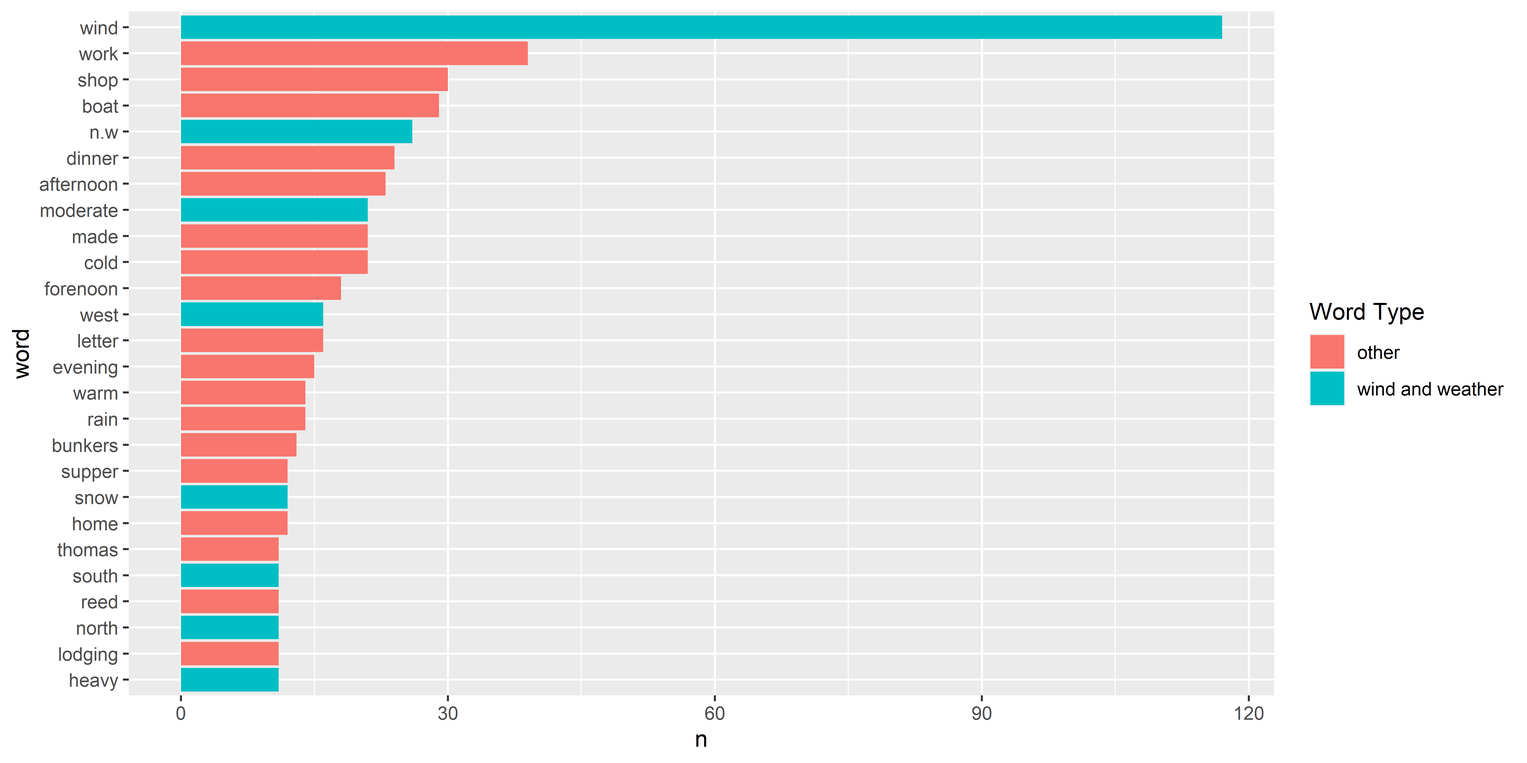
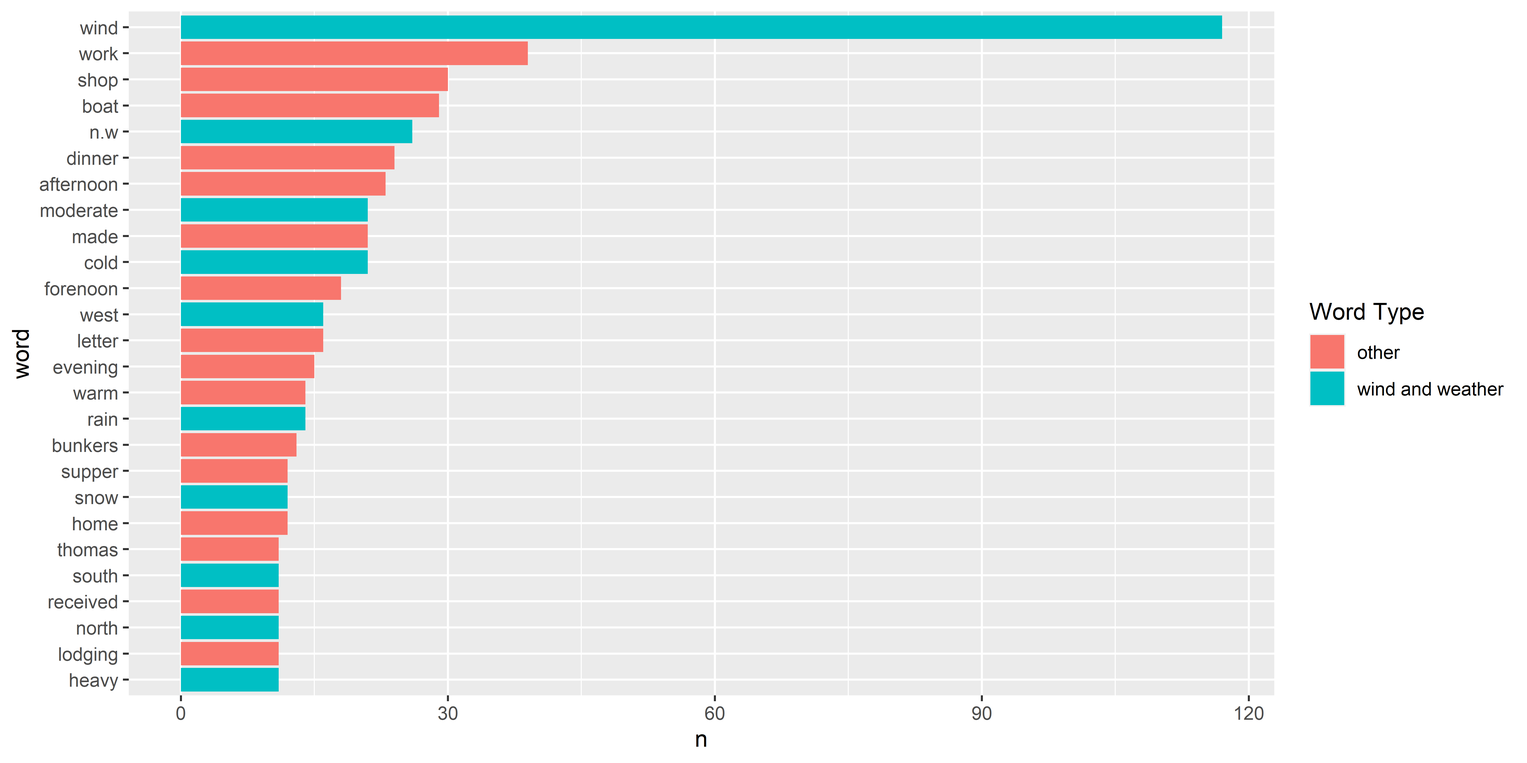
Update tidy text slides

Changed region(s): [[0.0935, 0.31, 0.2493, 0.372], [0.0935, 0.527, 0.2182, 0.589], [0.0312, 0.775, 0.0623, 0.806]]

diff --git a/docs/slides/01-tidytext.html b/docs/slides/01-tidytext.html
@@ -692,13 +692,13 @@ by Julia Silge adapted with a COA twist by Laurie Baker
 <h1>The Freeland Bunker Diaries</h1>
 
 </section>
-<section id="section-3" class="slide level2" data-background-image="figs/freeland_bunker.jpg" data-background-size="60%" data-background-color="white">
+<section id="section-3" class="slide level2" data-background-image="figs/freeland_bunker.jpg" data-background-size="40%" data-background-color="white">
 <h2></h2>
 <div class="footer">
 
 </div>
 </section>
-<section id="section-4" class="slide level2" data-background-image="figs/freeland_timeline.jpg" data-background-size="60%" data-background-color="white">
+<section id="section-4" class="slide level2" data-background-image="figs/freeland_timeline.jpg" data-background-size="40%" data-background-color="white">
 <h2></h2>
 <div class="footer">
 
@@ -752,25 +752,29 @@ by Julia Silge adapted with a COA twist by Laurie Baker
 </section>
 <section id="tidy-journals" class="slide level2">
 <h2>Tidy Journals</h2>
-<div class="cell" data-hash="01-tidytext_cache/revealjs/unnamed-chunk-18_5800bce2038c4ee481c1662cef2352f2">
+<div class="cell" data-hash="01-tidytext_cache/revealjs/unnamed-chunk-18_9bb9762a4731d79439278107ff6b9247">
 <div class="sourceCode cell-code" id="cb16"><pre class="sourceCode numberSource r number-lines code-with-copy"><code class="sourceCode r"><span id="cb16-1"><a href="#cb16-1"></a><span class="fu">library</span>(lubridate)</span>
 <span id="cb16-2"><a href="#cb16-2"></a>(tidy_journal <span class="ot">&lt;-</span> journals <span class="sc">%&gt;%</span></span>
 <span id="cb16-3"><a href="#cb16-3"></a>    <span class="fu">select</span>(date_mdy, month, journal_entry, journal) <span class="sc">%&gt;%</span></span>
-<span id="cb16-4"><a href="#cb16-4"></a>    <span class="fu">unnest_tokens</span>(word, journal_entry))</span>
-<span id="cb16-5"><a href="#cb16-5"></a><span class="co">#&gt; # A tibble: 12,356 x 4</span></span>
-<span id="cb16-6"><a href="#cb16-6"></a><span class="co">#&gt;    date_mdy   month    journal word   </span></span>
-<span id="cb16-7"><a href="#cb16-7"></a><span class="co">#&gt;    &lt;chr&gt;      &lt;chr&gt;      &lt;dbl&gt; &lt;chr&gt;  </span></span>
-<span id="cb16-8"><a href="#cb16-8"></a><span class="co">#&gt;  1 12/23/1871 December       1 was    </span></span>
-<span id="cb16-9"><a href="#cb16-9"></a><span class="co">#&gt;  2 12/23/1871 December       1 married</span></span>
-<span id="cb16-10"><a href="#cb16-10"></a><span class="co">#&gt;  3 12/23/1871 December       1 at     </span></span>
-<span id="cb16-11"><a href="#cb16-11"></a><span class="co">#&gt;  4 12/23/1871 December       1 home   </span></span>
-<span id="cb16-12"><a href="#cb16-12"></a><span class="co">#&gt;  5 12/23/1871 December       1 in     </span></span>
-<span id="cb16-13"><a href="#cb16-13"></a><span class="co">#&gt;  6 12/23/1871 December       1 evening</span></span>
-<span id="cb16-14"><a href="#cb16-14"></a><span class="co">#&gt;  7 12/23/1871 December       1 by     </span></span>
-<span id="cb16-15"><a href="#cb16-15"></a><span class="co">#&gt;  8 12/23/1871 December       1 william</span></span>
-<span id="cb16-16"><a href="#cb16-16"></a><span class="co">#&gt;  9 12/23/1871 December       1 rand   </span></span>
-<span id="cb16-17"><a href="#cb16-17"></a><span class="co">#&gt; 10 12/23/1871 December       1 esqr   </span></span>
-<span id="cb16-18"><a href="#cb16-18"></a><span class="co">#&gt; # ... with 12,346 more rows</span></span></code><button title="Copy to Clipboard" class="code-copy-button"><i class="bi"></i></button></pre></div>
+<span id="cb16-4"><a href="#cb16-4"></a>    <span class="fu">mutate</span>(<span class="at">date_mdy =</span> <span class="fu">mdy</span>(date_mdy)) <span class="sc">%&gt;%</span></span>
+<span id="cb16-5"><a href="#cb16-5"></a>    <span class="fu">mutate</span>(<span class="at">year =</span> <span class="fu">year</span>(date_mdy)) <span class="sc">%&gt;%</span></span>
+<span id="cb16-6"><a href="#cb16-6"></a>    <span class="fu">unnest_tokens</span>(word, journal_entry)  <span class="sc">%&gt;%</span></span>
+<span id="cb16-7"><a href="#cb16-7"></a>    <span class="fu">mutate</span>(<span class="at">word =</span> <span class="fu">case_when</span>(word <span class="sc">%in%</span> <span class="fu">c</span>(<span class="st">"reed"</span>, <span class="st">"read"</span>) <span class="sc">~</span> <span class="st">"received"</span>,</span>
+<span id="cb16-8"><a href="#cb16-8"></a>                            <span class="cn">TRUE</span> <span class="sc">~</span> word)))</span>
+<span id="cb16-9"><a href="#cb16-9"></a><span class="co">#&gt; # A tibble: 12,356 x 5</span></span>
+<span id="cb16-10"><a href="#cb16-10"></a><span class="co">#&gt;    date_mdy   month    journal  year word   </span></span>
+<span id="cb16-11"><a href="#cb16-11"></a><span class="co">#&gt;    &lt;date&gt;     &lt;chr&gt;      &lt;dbl&gt; &lt;dbl&gt; &lt;chr&gt;  </span></span>
+<span id="cb16-12"><a href="#cb16-12"></a><span class="co">#&gt;  1 1871-12-23 December       1  1871 was    </span></span>
+<span id="cb16-13"><a href="#cb16-13"></a><span class="co">#&gt;  2 1871-12-23 December       1  1871 married</span></span>
+<span id="cb16-14"><a href="#cb16-14"></a><span class="co">#&gt;  3 1871-12-23 December       1  1871 at     </span></span>
+<span id="cb16-15"><a href="#cb16-15"></a><span class="co">#&gt;  4 1871-12-23 December       1  1871 home   </span></span>
+<span id="cb16-16"><a href="#cb16-16"></a><span class="co">#&gt;  5 1871-12-23 December       1  1871 in     </span></span>
+<span id="cb16-17"><a href="#cb16-17"></a><span class="co">#&gt;  6 1871-12-23 December       1  1871 evening</span></span>
+<span id="cb16-18"><a href="#cb16-18"></a><span class="co">#&gt;  7 1871-12-23 December       1  1871 by     </span></span>
+<span id="cb16-19"><a href="#cb16-19"></a><span class="co">#&gt;  8 1871-12-23 December       1  1871 william</span></span>
+<span id="cb16-20"><a href="#cb16-20"></a><span class="co">#&gt;  9 1871-12-23 December       1  1871 rand   </span></span>
+<span id="cb16-21"><a href="#cb16-21"></a><span class="co">#&gt; 10 1871-12-23 December       1  1871 esqr   </span></span>
+<span id="cb16-22"><a href="#cb16-22"></a><span class="co">#&gt; # ... with 12,346 more rows</span></span></code><button title="Copy to Clipboard" class="code-copy-button"><i class="bi"></i></button></pre></div>
 </div>
 </section>
 <section id="most-common-words" class="slide level2">
@@ -975,6 +979,191 @@ by Julia Silge adapted with a COA twist by Laurie Baker
 <h2></h2>
 
 <img data-src="01-tidytext_files/figure-revealjs/unnamed-chunk-32-1.png" width="3000" class="r-stretch quarto-figure-center"></section></section>
+<section>
+<section id="was-freeland-sentimental" class="title-slide slide level1 center" data-background-image="figs/water.jpg" data-background-size="cover" data-background-opacity="0.5">
+<h1>Was Freeland Sentimental?</h1>
+<p><img data-src="figs/freeland_headshot.jpg" data-top="0" data-right="" width="180" height="200"></p>
+</section>
+<section id="implementing-sentiment-analysis-4" class="slide level2" data-background-color="white">
+<h2>Implementing sentiment analysis</h2>
+<div class="cell" data-hash="01-tidytext_cache/revealjs/unnamed-chunk-33_e1aebedbf6a02c68bc4004eed736e949">
+<div class="sourceCode cell-code" id="cb27" data-code-line-numbers="3"><pre class="sourceCode numberSource r number-lines code-with-copy"><code class="sourceCode r"><span id="cb27-1"><a href="#cb27-1"></a>tidy_journal <span class="sc">%&gt;%</span></span>
+<span id="cb27-2"><a href="#cb27-2"></a>    <span class="fu">inner_join</span>(<span class="fu">get_sentiments</span>(<span class="st">"bing"</span>)) <span class="sc">%&gt;%</span>            </span>
+<span id="cb27-3"><a href="#cb27-3"></a>    <span class="fu">count</span>(sentiment, word, <span class="at">sort =</span> <span class="cn">TRUE</span>)   </span>
+<span id="cb27-4"><a href="#cb27-4"></a><span class="co">#&gt; # A tibble: 84 x 3</span></span>
+<span id="cb27-5"><a href="#cb27-5"></a><span class="co">#&gt;    sentiment word         n</span></span>
+<span id="cb27-6"><a href="#cb27-6"></a><span class="co">#&gt;    &lt;chr&gt;     &lt;chr&gt;    &lt;int&gt;</span></span>
+<span id="cb27-7"><a href="#cb27-7"></a><span class="co">#&gt;  1 positive  work       182</span></span>
+<span id="cb27-8"><a href="#cb27-8"></a><span class="co">#&gt;  2 negative  cold        45</span></span>
+<span id="cb27-9"><a href="#cb27-9"></a><span class="co">#&gt;  3 positive  good        36</span></span>
+<span id="cb27-10"><a href="#cb27-10"></a><span class="co">#&gt;  4 positive  calm        33</span></span>
+<span id="cb27-11"><a href="#cb27-11"></a><span class="co">#&gt;  5 negative  staid       30</span></span>
+<span id="cb27-12"><a href="#cb27-12"></a><span class="co">#&gt;  6 positive  warm        29</span></span>
+<span id="cb27-13"><a href="#cb27-13"></a><span class="co">#&gt;  7 positive  breeze      25</span></span>
+<span id="cb27-14"><a href="#cb27-14"></a><span class="co">#&gt;  8 positive  pleasant    24</span></span>
+<span id="cb27-15"><a href="#cb27-15"></a><span class="co">#&gt;  9 positive  ready       17</span></span>
+<span id="cb27-16"><a href="#cb27-16"></a><span class="co">#&gt; 10 positive  worked      17</span></span>
+<span id="cb27-17"><a href="#cb27-17"></a><span class="co">#&gt; # ... with 74 more rows</span></span></code><button title="Copy to Clipboard" class="code-copy-button"><i class="bi"></i></button></pre></div>
+</div>
+</section>
+<section id="implementing-sentiment-analysis-5" class="slide level2" data-background-color="white">
+<h2>Implementing sentiment analysis</h2>
+<div class="cell" data-hash="01-tidytext_cache/revealjs/unnamed-chunk-34_dde93cd555e30d5c207b69ca9cbd4e04">
+<div class="sourceCode cell-code" id="cb28" data-code-line-numbers="|7"><pre class="sourceCode numberSource r number-lines code-with-copy"><code class="sourceCode r"><span id="cb28-1"><a href="#cb28-1"></a>tidy_journal <span class="sc">%&gt;%</span></span>
+<span id="cb28-2"><a href="#cb28-2"></a>    <span class="fu">inner_join</span>(<span class="fu">get_sentiments</span>(<span class="st">"bing"</span>)) <span class="sc">%&gt;%</span></span>
+<span id="cb28-3"><a href="#cb28-3"></a>    <span class="fu">count</span>(sentiment, word, <span class="at">sort =</span> <span class="cn">TRUE</span>) <span class="sc">%&gt;%</span></span>
+<span id="cb28-4"><a href="#cb28-4"></a>    <span class="fu">group_by</span>(sentiment) <span class="sc">%&gt;%</span></span>
+<span id="cb28-5"><a href="#cb28-5"></a>    <span class="fu">slice_max</span>(n, <span class="at">n =</span> <span class="dv">10</span>) <span class="sc">%&gt;%</span></span>
+<span id="cb28-6"><a href="#cb28-6"></a>    <span class="fu">ungroup</span>() <span class="sc">%&gt;%</span></span>
+<span id="cb28-7"><a href="#cb28-7"></a>    <span class="fu">ggplot</span>(<span class="fu">aes</span>(n, <span class="fu">fct_reorder</span>(word, n), <span class="at">fill =</span> sentiment)) <span class="sc">+</span></span>
+<span id="cb28-8"><a href="#cb28-8"></a>    <span class="fu">geom_col</span>() <span class="sc">+</span></span>
+<span id="cb28-9"><a href="#cb28-9"></a>    <span class="fu">facet_wrap</span>(<span class="fu">vars</span>(sentiment), <span class="at">scales =</span> <span class="st">"free"</span>) </span></code><button title="Copy to Clipboard" class="code-copy-button"><i class="bi"></i></button></pre></div>
+</div>
+</section>
+<section id="section-7" class="slide level2" data-background-color="white">
+<h2></h2>
+
+<img data-src="01-tidytext_files/figure-revealjs/unnamed-chunk-35-1.png" width="3000" class="r-stretch quarto-figure-center"></section></section>
+<section>
+<section id="what-was-the-weather-like" class="title-slide slide level1 center" data-background-image="figs/water.jpg" data-background-size="cover" data-background-opacity="0.5">
+<h1>What was the weather like?</h1>
+
+</section>
+<section id="section-8" class="slide level2" data-background-color="white">
+<h2></h2>
+
+<img data-src="01-tidytext_files/figure-revealjs/unnamed-chunk-36-1.png" width="3000" class="r-stretch quarto-figure-center"></section></section>
+<section>
+<section id="more-insight-from-bigrams" class="title-slide slide level1 center" data-background-image="figs/water.jpg" data-background-size="cover" data-background-opacity="0.5">
+<h1>More insight from bigrams!</h1>
+<div class="cell" data-hash="01-tidytext_cache/revealjs/unnamed-chunk-37_34c428804091af85667378bf3b14c794">
+<div class="sourceCode cell-code" id="cb29"><pre class="sourceCode numberSource r number-lines code-with-copy"><code class="sourceCode r"><span id="cb29-1"><a href="#cb29-1"></a>(tidy_ngram <span class="ot">&lt;-</span> journals <span class="sc">%&gt;%</span></span>
+<span id="cb29-2"><a href="#cb29-2"></a>    <span class="fu">mutate</span>(<span class="at">journal_entry =</span> <span class="fu">str_replace_all</span>(journal_entry, <span class="st">"south west"</span>, <span class="st">"southwest"</span>)) <span class="sc">%&gt;%</span></span>
+<span id="cb29-3"><a href="#cb29-3"></a>    <span class="fu">mutate</span>(<span class="at">journal_entry =</span> <span class="fu">str_replace_all</span>(journal_entry, <span class="st">"north west"</span>, <span class="st">"northwest"</span>)) <span class="sc">%&gt;%</span></span>
+<span id="cb29-4"><a href="#cb29-4"></a>    <span class="fu">mutate</span>(<span class="at">journal_entry =</span> <span class="fu">str_replace_all</span>(journal_entry, <span class="st">"south east"</span>, <span class="st">"southeast"</span>)) <span class="sc">%&gt;%</span></span>
+<span id="cb29-5"><a href="#cb29-5"></a>    <span class="fu">mutate</span>(<span class="at">journal_entry =</span> <span class="fu">str_replace_all</span>(journal_entry, <span class="st">"north east"</span>, <span class="st">"northeast"</span>)) <span class="sc">%&gt;%</span></span>
+<span id="cb29-6"><a href="#cb29-6"></a>    <span class="fu">unnest_tokens</span>(bigram, journal_entry, <span class="at">token =</span> <span class="st">"ngrams"</span>, <span class="at">n =</span> <span class="dv">2</span>) <span class="sc">%&gt;%</span> </span>
+<span id="cb29-7"><a href="#cb29-7"></a>    <span class="fu">drop_na</span>(bigram) <span class="sc">%&gt;%</span></span>
+<span id="cb29-8"><a href="#cb29-8"></a>    <span class="fu">select</span>(journal, bigram, date_mdy))</span>
+<span id="cb29-9"><a href="#cb29-9"></a><span class="co">#&gt; # A tibble: 11,467 x 3</span></span>
+<span id="cb29-10"><a href="#cb29-10"></a><span class="co">#&gt;    journal bigram       date_mdy  </span></span>
+<span id="cb29-11"><a href="#cb29-11"></a><span class="co">#&gt;      &lt;dbl&gt; &lt;chr&gt;        &lt;chr&gt;     </span></span>
+<span id="cb29-12"><a href="#cb29-12"></a><span class="co">#&gt;  1       1 was married  12/23/1871</span></span>
+<span id="cb29-13"><a href="#cb29-13"></a><span class="co">#&gt;  2       1 married at   12/23/1871</span></span>
+<span id="cb29-14"><a href="#cb29-14"></a><span class="co">#&gt;  3       1 at home      12/23/1871</span></span>
+<span id="cb29-15"><a href="#cb29-15"></a><span class="co">#&gt;  4       1 home in      12/23/1871</span></span>
+<span id="cb29-16"><a href="#cb29-16"></a><span class="co">#&gt;  5       1 in evening   12/23/1871</span></span>
+<span id="cb29-17"><a href="#cb29-17"></a><span class="co">#&gt;  6       1 evening by   12/23/1871</span></span>
+<span id="cb29-18"><a href="#cb29-18"></a><span class="co">#&gt;  7       1 by william   12/23/1871</span></span>
+<span id="cb29-19"><a href="#cb29-19"></a><span class="co">#&gt;  8       1 william rand 12/23/1871</span></span>
+<span id="cb29-20"><a href="#cb29-20"></a><span class="co">#&gt;  9       1 rand esqr    12/23/1871</span></span>
+<span id="cb29-21"><a href="#cb29-21"></a><span class="co">#&gt; 10       1 went to      12/24/1871</span></span>
+<span id="cb29-22"><a href="#cb29-22"></a><span class="co">#&gt; # ... with 11,457 more rows</span></span></code><button title="Copy to Clipboard" class="code-copy-button"><i class="bi"></i></button></pre></div>
+</div>
+</section>
+<section id="n-grams-and-beyond" class="slide level2" data-background-color="white">
+<h2>N-grams… and beyond! 🚀</h2>
+<div class="cell" data-hash="01-tidytext_cache/revealjs/unnamed-chunk-38_5ea93734f1d141e65b011be253cfaf75">
+<div class="sourceCode cell-code" id="cb30"><pre class="sourceCode numberSource r number-lines code-with-copy"><code class="sourceCode r"><span id="cb30-1"><a href="#cb30-1"></a>tidy_ngram <span class="sc">%&gt;%</span></span>
+<span id="cb30-2"><a href="#cb30-2"></a>    <span class="fu">count</span>(bigram, <span class="at">sort =</span> <span class="cn">TRUE</span>)</span>
+<span id="cb30-3"><a href="#cb30-3"></a><span class="co">#&gt; # A tibble: 5,522 x 2</span></span>
+<span id="cb30-4"><a href="#cb30-4"></a><span class="co">#&gt;    bigram             n</span></span>
+<span id="cb30-5"><a href="#cb30-5"></a><span class="co">#&gt;    &lt;chr&gt;          &lt;int&gt;</span></span>
+<span id="cb30-6"><a href="#cb30-6"></a><span class="co">#&gt;  1 the wind         501</span></span>
+<span id="cb30-7"><a href="#cb30-7"></a><span class="co">#&gt;  2 went to          149</span></span>
+<span id="cb30-8"><a href="#cb30-8"></a><span class="co">#&gt;  3 in shop          110</span></span>
+<span id="cb30-9"><a href="#cb30-9"></a><span class="co">#&gt;  4 work in          108</span></span>
+<span id="cb30-10"><a href="#cb30-10"></a><span class="co">#&gt;  5 in the            99</span></span>
+<span id="cb30-11"><a href="#cb30-11"></a><span class="co">#&gt;  6 wind north        71</span></span>
+<span id="cb30-12"><a href="#cb30-12"></a><span class="co">#&gt;  7 in forenoon       55</span></span>
+<span id="cb30-13"><a href="#cb30-13"></a><span class="co">#&gt;  8 wind southerly    54</span></span>
+<span id="cb30-14"><a href="#cb30-14"></a><span class="co">#&gt;  9 letter to         53</span></span>
+<span id="cb30-15"><a href="#cb30-15"></a><span class="co">#&gt; 10 wrote letter      53</span></span>
+<span id="cb30-16"><a href="#cb30-16"></a><span class="co">#&gt; # ... with 5,512 more rows</span></span></code><button title="Copy to Clipboard" class="code-copy-button"><i class="bi"></i></button></pre></div>
+</div>
+</section>
+<section id="jane-wants-to-know-2" class="slide level2" data-transition="slide-in">
+<h2>Jane wants to know…</h2>
+<p><img data-src="figs/blue_jane.png" class="absolute" style="top: 0px; right: 0px; width: 150px; height: 150px; "></p>
+<p>Can we use an <span class="codedarkbg">anti_join()</span> now to remove stop words?</p>
+<ul>
+<li>Yes! ✅</li>
+<li>No ☹</li>
+</ul>
+</section>
+<section id="n-grams-and-beyond-1" class="slide level2" data-background-color="white">
+<h2>N-grams… and beyond! 🚀</h2>
+<div class="cell" data-hash="01-tidytext_cache/revealjs/unnamed-chunk-39_15c5c88806232e301569298b523710d9">
+<div class="sourceCode cell-code" id="cb31" data-code-line-numbers="|2"><pre class="sourceCode numberSource r number-lines code-with-copy"><code class="sourceCode r"><span id="cb31-1"><a href="#cb31-1"></a>bigram_counts <span class="ot">&lt;-</span> tidy_ngram <span class="sc">%&gt;%</span></span>
+<span id="cb31-2"><a href="#cb31-2"></a>    <span class="fu">separate</span>(bigram, <span class="fu">c</span>(<span class="st">"word1"</span>, <span class="st">"word2"</span>), <span class="at">sep =</span> <span class="st">" "</span>) <span class="sc">%&gt;%</span></span>
+<span id="cb31-3"><a href="#cb31-3"></a>    <span class="fu">filter</span>(<span class="sc">!</span>word1 <span class="sc">%in%</span> stop_words<span class="sc">$</span>word,</span>
+<span id="cb31-4"><a href="#cb31-4"></a>           <span class="sc">!</span>word2 <span class="sc">%in%</span> stop_words<span class="sc">$</span>word) <span class="sc">%&gt;%</span></span>
+<span id="cb31-5"><a href="#cb31-5"></a>    <span class="fu">count</span>(word1, word2, <span class="at">sort =</span> <span class="cn">TRUE</span>)</span></code><button title="Copy to Clipboard" class="code-copy-button"><i class="bi"></i></button></pre></div>
+</div>
+</section>
+<section id="so-many-wind-directions" class="slide level2" data-background-color="white">
+<h2>So many wind directions…! 🚀</h2>
+<div class="cell" data-hash="01-tidytext_cache/revealjs/unnamed-chunk-40_3ecc895eed6dd43b13c89ff8fc6282e7">
+<div class="sourceCode cell-code" id="cb32"><pre class="sourceCode numberSource r number-lines code-with-copy"><code class="sourceCode r"><span id="cb32-1"><a href="#cb32-1"></a>bigram_counts</span>
+<span id="cb32-2"><a href="#cb32-2"></a><span class="co">#&gt; # A tibble: 1,930 x 3</span></span>
+<span id="cb32-3"><a href="#cb32-3"></a><span class="co">#&gt;    word1 word2         n</span></span>
+<span id="cb32-4"><a href="#cb32-4"></a><span class="co">#&gt;    &lt;chr&gt; &lt;chr&gt;     &lt;int&gt;</span></span>
+<span id="cb32-5"><a href="#cb32-5"></a><span class="co">#&gt;  1 wind  north        71</span></span>
+<span id="cb32-6"><a href="#cb32-6"></a><span class="co">#&gt;  2 wind  southerly    54</span></span>
+<span id="cb32-7"><a href="#cb32-7"></a><span class="co">#&gt;  3 wrote letter       53</span></span>
+<span id="cb32-8"><a href="#cb32-8"></a><span class="co">#&gt;  4 north west         48</span></span>
+<span id="cb32-9"><a href="#cb32-9"></a><span class="co">#&gt;  5 wind  south        47</span></span>
+<span id="cb32-10"><a href="#cb32-10"></a><span class="co">#&gt;  6 reed  letter       36</span></span>
+<span id="cb32-11"><a href="#cb32-11"></a><span class="co">#&gt;  7 wind  n.w          33</span></span>
+<span id="cb32-12"><a href="#cb32-12"></a><span class="co">#&gt;  8 south west         32</span></span>
+<span id="cb32-13"><a href="#cb32-13"></a><span class="co">#&gt;  9 wind  easterly     32</span></span>
+<span id="cb32-14"><a href="#cb32-14"></a><span class="co">#&gt; 10 wind  northerly    26</span></span>
+<span id="cb32-15"><a href="#cb32-15"></a><span class="co">#&gt; # ... with 1,920 more rows</span></span></code><button title="Copy to Clipboard" class="code-copy-button"><i class="bi"></i></button></pre></div>
+</div>
+</section>
+<section id="lets-tidy-these-up" class="slide level2">
+<h2>Let’s tidy these up</h2>
+<div class="cell" data-hash="01-tidytext_cache/revealjs/unnamed-chunk-41_bc682d76946bae84b2b5f36352084827">
+<div class="sourceCode cell-code" id="cb33"><pre class="sourceCode numberSource r number-lines code-with-copy"><code class="sourceCode r"><span id="cb33-1"><a href="#cb33-1"></a>bigram_counts <span class="ot">&lt;-</span> tidy_ngram <span class="sc">%&gt;%</span></span>
+<span id="cb33-2"><a href="#cb33-2"></a>    <span class="fu">separate</span>(bigram, <span class="fu">c</span>(<span class="st">"word1"</span>, <span class="st">"word2"</span>), <span class="at">sep =</span> <span class="st">" "</span>) <span class="sc">%&gt;%</span></span>
+<span id="cb33-3"><a href="#cb33-3"></a>    <span class="fu">filter</span>(<span class="sc">!</span>word1 <span class="sc">%in%</span> stop_words<span class="sc">$</span>word,</span>
+<span id="cb33-4"><a href="#cb33-4"></a>           <span class="sc">!</span>word2 <span class="sc">%in%</span> stop_words<span class="sc">$</span>word) <span class="sc">%&gt;%</span></span>
+<span id="cb33-5"><a href="#cb33-5"></a>    <span class="fu">mutate</span>(<span class="at">word1 =</span> <span class="fu">case_when</span>(word1 <span class="sc">==</span> <span class="st">"easterly"</span> <span class="sc">~</span> <span class="st">"east"</span>,</span>
+<span id="cb33-6"><a href="#cb33-6"></a>                             word1 <span class="sc">==</span> <span class="st">"southerly"</span> <span class="sc">~</span> <span class="st">"south"</span>,</span>
+<span id="cb33-7"><a href="#cb33-7"></a>                             word1 <span class="sc">==</span> <span class="st">"n.w"</span> <span class="sc">~</span> <span class="st">"northwest"</span>,</span>
+<span id="cb33-8"><a href="#cb33-8"></a>                             word1 <span class="sc">==</span> <span class="st">"northerly"</span> <span class="sc">~</span> <span class="st">"north"</span>,</span>
+<span id="cb33-9"><a href="#cb33-9"></a>                             word1 <span class="sc">==</span> <span class="st">"westerly"</span> <span class="sc">~</span> <span class="st">"west"</span>,</span>
+<span id="cb33-10"><a href="#cb33-10"></a>           <span class="cn">TRUE</span> <span class="sc">~</span> word1)) <span class="sc">%&gt;%</span></span>
+<span id="cb33-11"><a href="#cb33-11"></a>    <span class="fu">mutate</span>(<span class="at">word2 =</span> <span class="fu">case_when</span>(word2 <span class="sc">==</span> <span class="st">"easterly"</span> <span class="sc">~</span> <span class="st">"east"</span>,</span>
+<span id="cb33-12"><a href="#cb33-12"></a>                             word2 <span class="sc">==</span> <span class="st">"southerly"</span> <span class="sc">~</span> <span class="st">"south"</span>,</span>
+<span id="cb33-13"><a href="#cb33-13"></a>                             word2 <span class="sc">==</span> <span class="st">"n.w"</span> <span class="sc">~</span> <span class="st">"northwest"</span>,</span>
+<span id="cb33-14"><a href="#cb33-14"></a>                             word2 <span class="sc">==</span> <span class="st">"northerly"</span> <span class="sc">~</span> <span class="st">"north"</span>,</span>
+<span id="cb33-15"><a href="#cb33-15"></a>                             word2 <span class="sc">==</span> <span class="st">"westerly"</span> <span class="sc">~</span> <span class="st">"west"</span>,</span>
+<span id="cb33-16"><a href="#cb33-16"></a>           <span class="cn">TRUE</span> <span class="sc">~</span> word2)) <span class="sc">%&gt;%</span></span>
+<span id="cb33-17"><a href="#cb33-17"></a>    <span class="fu">count</span>(word1, word2, <span class="at">sort =</span> <span class="cn">TRUE</span>)</span></code><button title="Copy to Clipboard" class="code-copy-button"><i class="bi"></i></button></pre></div>
+</div>
+</section>
+<section id="removing-wind" class="slide level2">
+<h2>Removing wind</h2>
+<div class="cell" data-hash="01-tidytext_cache/revealjs/unnamed-chunk-42_068718eebfbfff822325b272fa3a3006">
+<div class="sourceCode cell-code" id="cb34"><pre class="sourceCode numberSource r number-lines code-with-copy"><code class="sourceCode r"><span id="cb34-1"><a href="#cb34-1"></a>bigram_counts <span class="sc">%&gt;%</span></span>
+<span id="cb34-2"><a href="#cb34-2"></a>    <span class="fu">filter</span>(word1 <span class="sc">!=</span> <span class="st">"wind"</span> <span class="sc">&amp;</span> word1 <span class="sc">!=</span> <span class="st">"north"</span> <span class="sc">&amp;</span> word1 <span class="sc">!=</span> <span class="st">"south"</span>)</span>
+<span id="cb34-3"><a href="#cb34-3"></a><span class="co">#&gt; # A tibble: 1,826 x 3</span></span>
+<span id="cb34-4"><a href="#cb34-4"></a><span class="co">#&gt;    word1   word2         n</span></span>
+<span id="cb34-5"><a href="#cb34-5"></a><span class="co">#&gt;    &lt;chr&gt;   &lt;chr&gt;     &lt;int&gt;</span></span>
+<span id="cb34-6"><a href="#cb34-6"></a><span class="co">#&gt;  1 wrote   letter       53</span></span>
+<span id="cb34-7"><a href="#cb34-7"></a><span class="co">#&gt;  2 reed    letter       36</span></span>
+<span id="cb34-8"><a href="#cb34-8"></a><span class="co">#&gt;  3 lbs     lobsters     24</span></span>
+<span id="cb34-9"><a href="#cb34-9"></a><span class="co">#&gt;  4 cc      burrill      20</span></span>
+<span id="cb34-10"><a href="#cb34-10"></a><span class="co">#&gt;  5 cutting wood         19</span></span>
+<span id="cb34-11"><a href="#cb34-11"></a><span class="co">#&gt;  6 thomas  smallidge    14</span></span>
+<span id="cb34-12"><a href="#cb34-12"></a><span class="co">#&gt;  7 letter  home         12</span></span>
+<span id="cb34-13"><a href="#cb34-13"></a><span class="co">#&gt;  8 supper  lodging      12</span></span>
+<span id="cb34-14"><a href="#cb34-14"></a><span class="co">#&gt;  9 capt    thomas       10</span></span>
+<span id="cb34-15"><a href="#cb34-15"></a><span class="co">#&gt; 10 dr      johnson      10</span></span>
+<span id="cb34-16"><a href="#cb34-16"></a><span class="co">#&gt; # ... with 1,816 more rows</span></span></code><button title="Copy to Clipboard" class="code-copy-button"><i class="bi"></i></button></pre></div>
+</div>
+</section></section>
 <section id="thanks" class="title-slide slide level1 center" data-background-image="figs/p_and_p_cover.png" data-background-size="cover" data-background-opacity="0.5">
 <h1>Thanks!</h1>
 <center>
